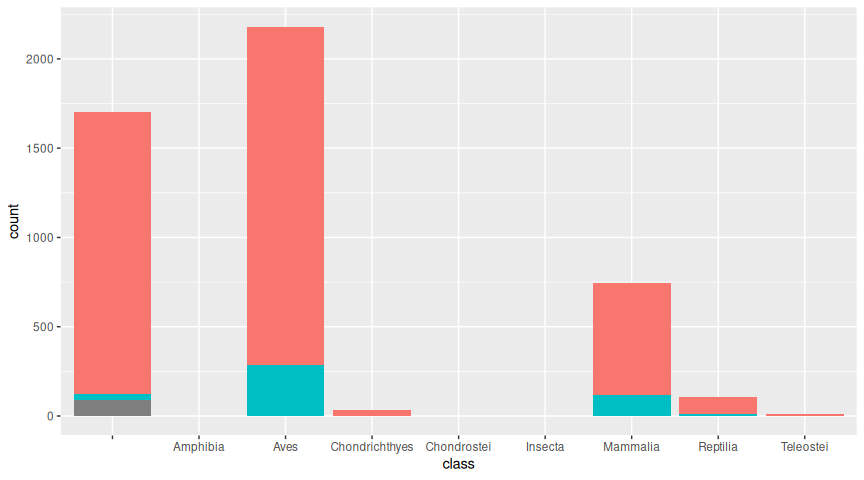
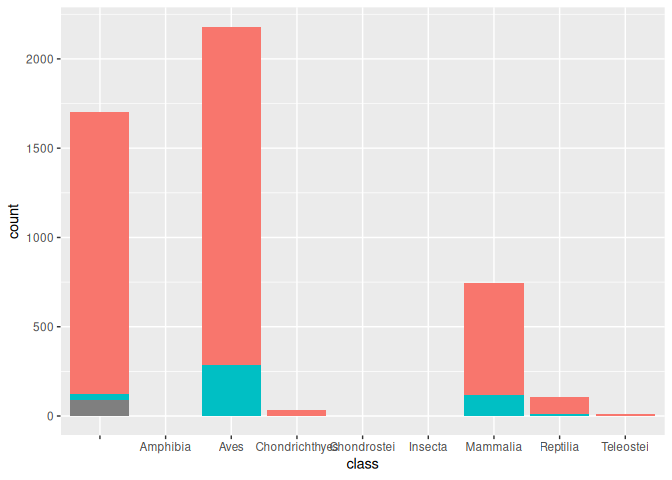
render

diff --git a/data-sources/movebank-results.md b/data-sources/movebank-results.md
@@ -61,7 +61,7 @@ TODO: N access, family, class, access by taxonomy etc
         geom_bar(aes(class, fill = i_have_download_access)) +
         guides(fill = FALSE)
 
-![](movebank-results_files/figure-gfm/unnamed-chunk-1-1.png)<!-- -->
+![](movebank-results_files/figure-gfm/class-1.png)<!-- -->
 
 Careful double counting, because the `DT` dataset now has duplicated
 study rows for each parsed taxon.
